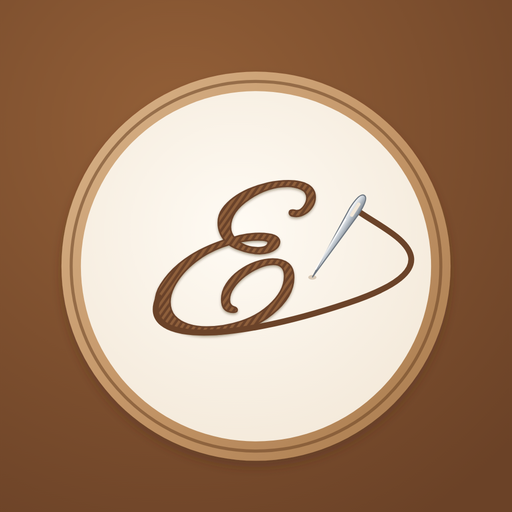
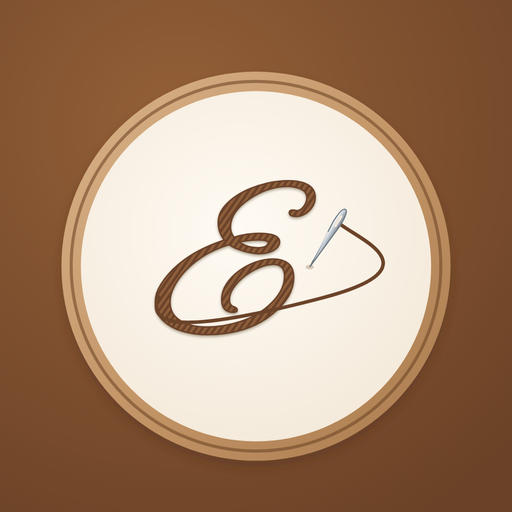
style: agulha menor e linha mais fina no ícone do app
Claude-Session: https://claude.ai/code/session_01Vfb9uRLmoYKPsP2WywoggU

Changed region(s): [[0.3125, 0.375, 0.8125, 0.6562], [0.2812, 0.5938, 0.3125, 0.625]]

diff --git a/index.html b/index.html
@@ -7,10 +7,10 @@
 <title>Ela me Fez</title>
 <meta name="description" content="Necessaires, bordados, amigurumis e presentes feitos à mão. Escolha tamanho, cor e estampa e faça seu pedido pelo WhatsApp.">
 <meta name="theme-color" content="#F5EFE6">
-<link rel="icon" type="image/png" sizes="32x32" href="favicon.png?v=202611082005">
-<link rel="icon" type="image/png" sizes="192x192" href="icons/icon-192.png?v=202611082005">
-<link rel="apple-touch-icon" sizes="180x180" href="/apple-touch-icon.png?v=202611082005">
-<link rel="manifest" href="manifest.webmanifest?v=202611082005">
+<link rel="icon" type="image/png" sizes="32x32" href="favicon.png?v=202611082006">
+<link rel="icon" type="image/png" sizes="192x192" href="icons/icon-192.png?v=202611082006">
+<link rel="apple-touch-icon" sizes="180x180" href="/apple-touch-icon.png?v=202611082006">
+<link rel="manifest" href="manifest.webmanifest?v=202611082006">
 <meta name="apple-mobile-web-app-capable" content="yes">
 <meta name="mobile-web-app-capable" content="yes">
 <meta name="apple-mobile-web-app-title" content="Ela me Fez">
